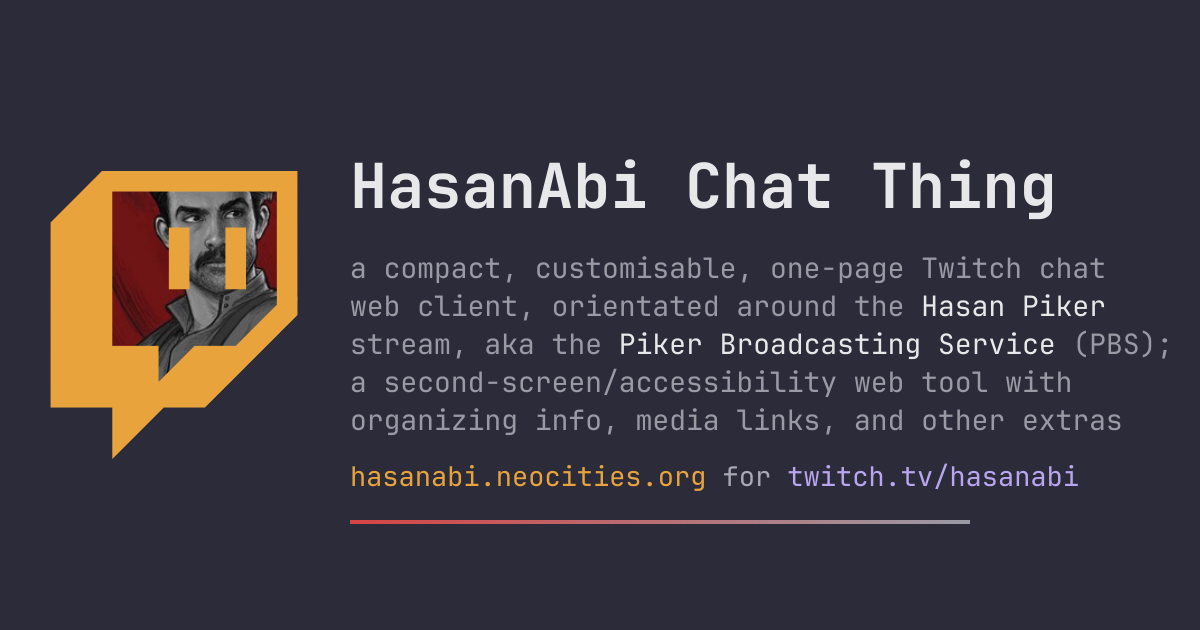
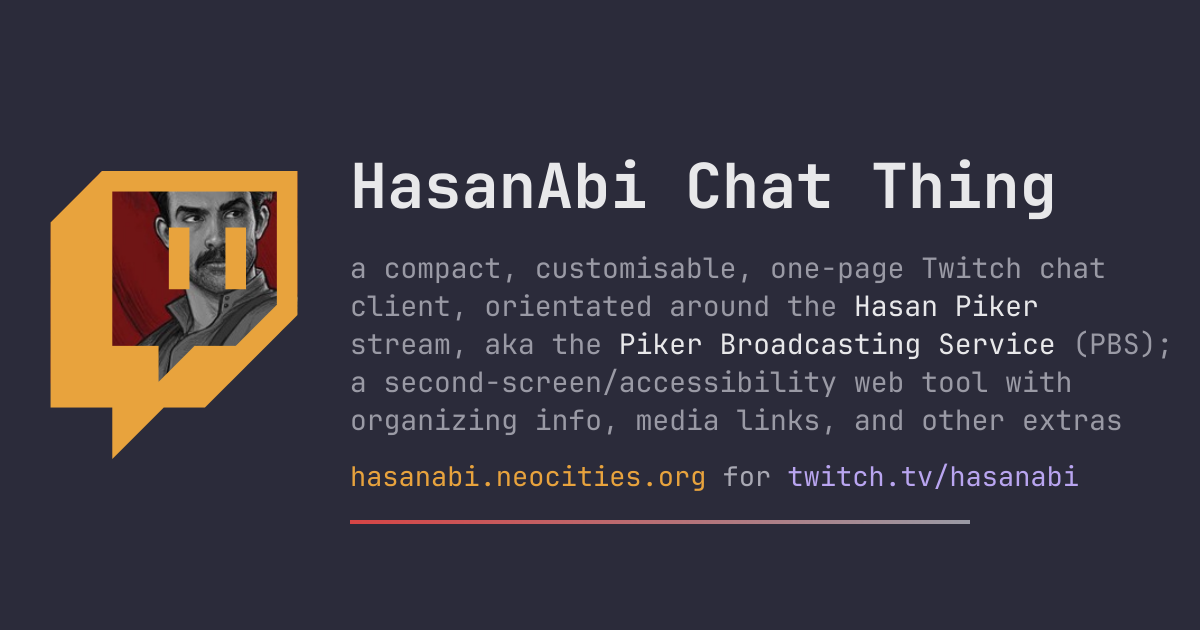
about: drop web from the client label
Generated with [Devin](https://devin.ai)

Changed region(s): [[0.2775, 0.4524, 0.6783, 0.5127], [0.7092, 0.4524, 0.925, 0.5127]]

diff --git a/about/index.html b/about/index.html
@@ -4,9 +4,9 @@
 <meta charset="utf-8">
 <meta name="viewport" content="width=device-width, initial-scale=1">
 <title>HasanAbi Chat Thing - about</title>
-<meta name="description" content="a compact, customisable, one-page Twitch chat web client, orientated around the Hasan Piker stream, aka the Piker Broadcasting Service (PBS); a second-screen/accessibility web tool with organizing info, media links, and other extras">
+<meta name="description" content="a compact, customisable, one-page Twitch chat client, orientated around the Hasan Piker stream, aka the Piker Broadcasting Service (PBS); a second-screen/accessibility web tool with organizing info, media links, and other extras">
 <meta property="og:title" content="HasanAbi Chat Thing">
-<meta property="og:description" content="a compact, customisable, one-page Twitch chat web client, orientated around the Hasan Piker stream, aka the Piker Broadcasting Service (PBS); a second-screen/accessibility web tool with organizing info, media links, and other extras">
+<meta property="og:description" content="a compact, customisable, one-page Twitch chat client, orientated around the Hasan Piker stream, aka the Piker Broadcasting Service (PBS); a second-screen/accessibility web tool with organizing info, media links, and other extras">
 <meta property="og:image" content="https://hasanabi.neocities.org/og.png">
 <link rel="icon" href="../favicon.ico">
 <style>
@@ -127,7 +127,7 @@
 </head>
 <body>
 <main>
-  <div class="card"><img src="../og.png" alt="HasanAbi Chat Thing - a compact, customisable, one-page Twitch chat web client, orientated around the Hasan Piker stream, aka the Piker Broadcasting Service (PBS); a second-screen/accessibility web tool with organizing info, media links, and other extras"></div>
+  <div class="card"><img src="../og.png" alt="HasanAbi Chat Thing - a compact, customisable, one-page Twitch chat client, orientated around the Hasan Piker stream, aka the Piker Broadcasting Service (PBS); a second-screen/accessibility web tool with organizing info, media links, and other extras"></div>
 
   <p>liberate the
   <a href="https://www.twitch.tv/hasanabi">HasanAbi</a> Twitch chat with a web tool
